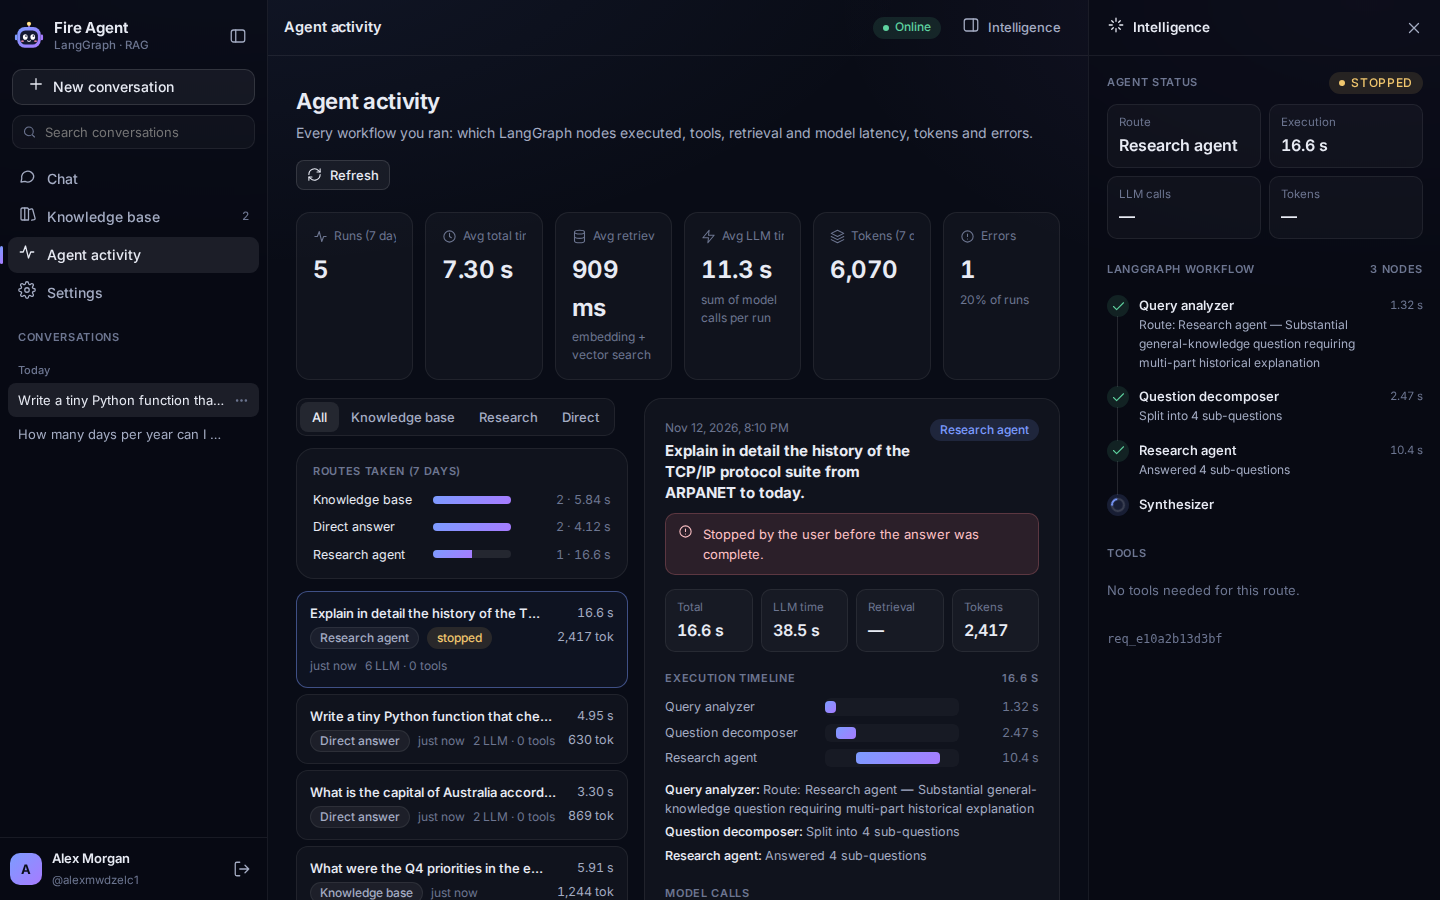
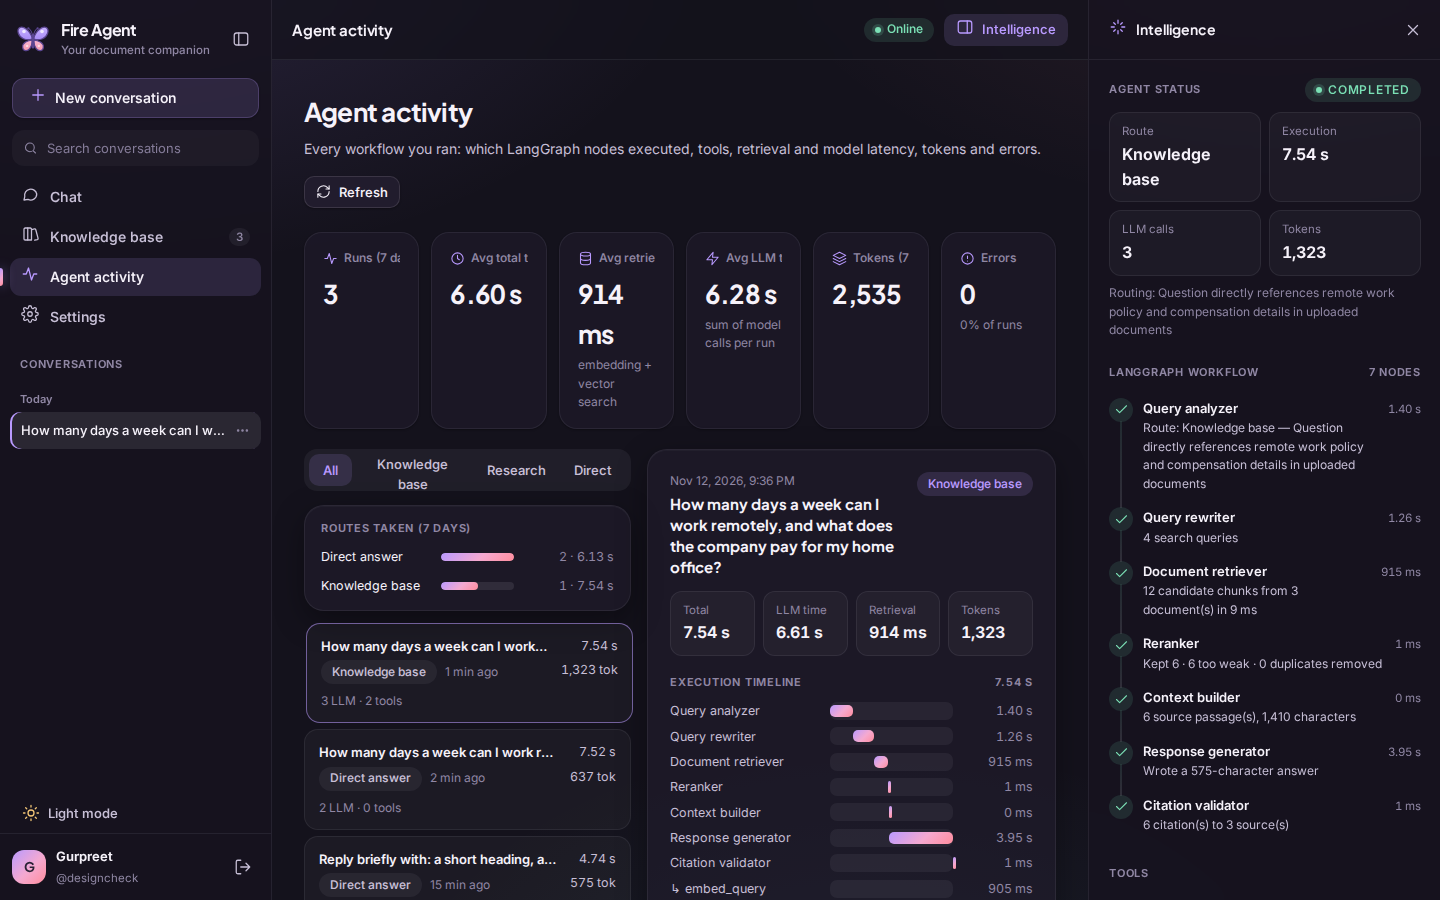
Add screenshots of the redesigned site to the README
New light and dark screenshots of the welcome screen, a cited RAG answer
with the Intelligence panel, the knowledge base, agent activity, sign-in
and phone layouts; the old dark-only screenshots are replaced.

diff --git a/README.md b/README.md
@@ -7,7 +7,20 @@ direct answer, and every run is traced and automatically evaluated.
 
 All model calls go through **Fire** (`/v1/chat`, `/v1/chat/stream`, `/v1/embed`); vectors live in **PostgreSQL + pgvector**.
 
-![Chat with cited answer](docs/img/chat-rag.png)
+![Chat with a cited answer and the live Intelligence panel](docs/img/chat-rag.png)
+
+### Light and dark themes
+
+A soft pastel light theme (the default) and a midnight-plum dark theme, switchable from the sidebar and remembered per browser.
+
+| Light | Dark |
+|---|---|
+| ![Welcome screen, light theme](docs/img/welcome-light.png) | ![Welcome screen, dark theme](docs/img/welcome-dark.png) |
+| ![Cited answer, light theme](docs/img/chat-rag.png) | ![Cited answer, dark theme](docs/img/chat-rag-dark.png) |
+
+| Sign in | Phone (light) | Phone (dark) |
+|---|---|---|
+| ![Sign-in screen](docs/img/sign-in.png) | ![Welcome on a phone](docs/img/mobile-welcome-light.png) | ![Cited answer on a phone](docs/img/mobile-chat-dark.png) |
 
 ## What's inside
 
